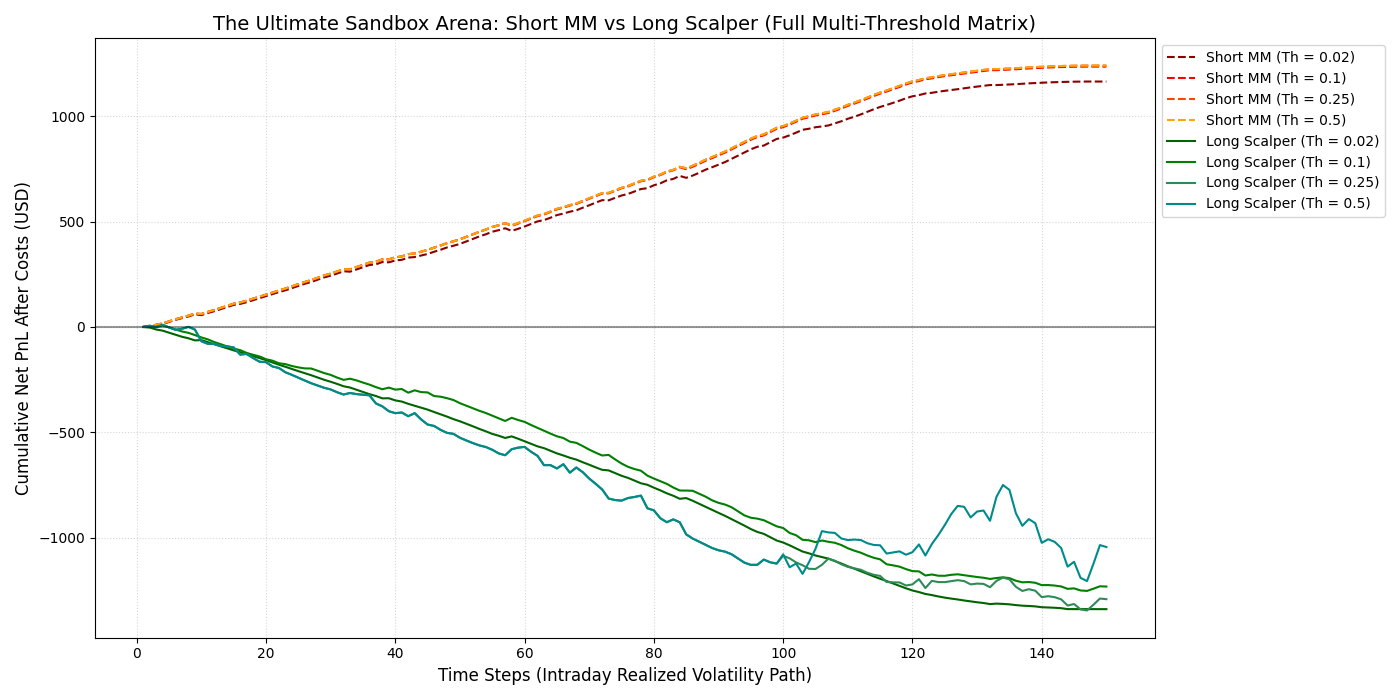
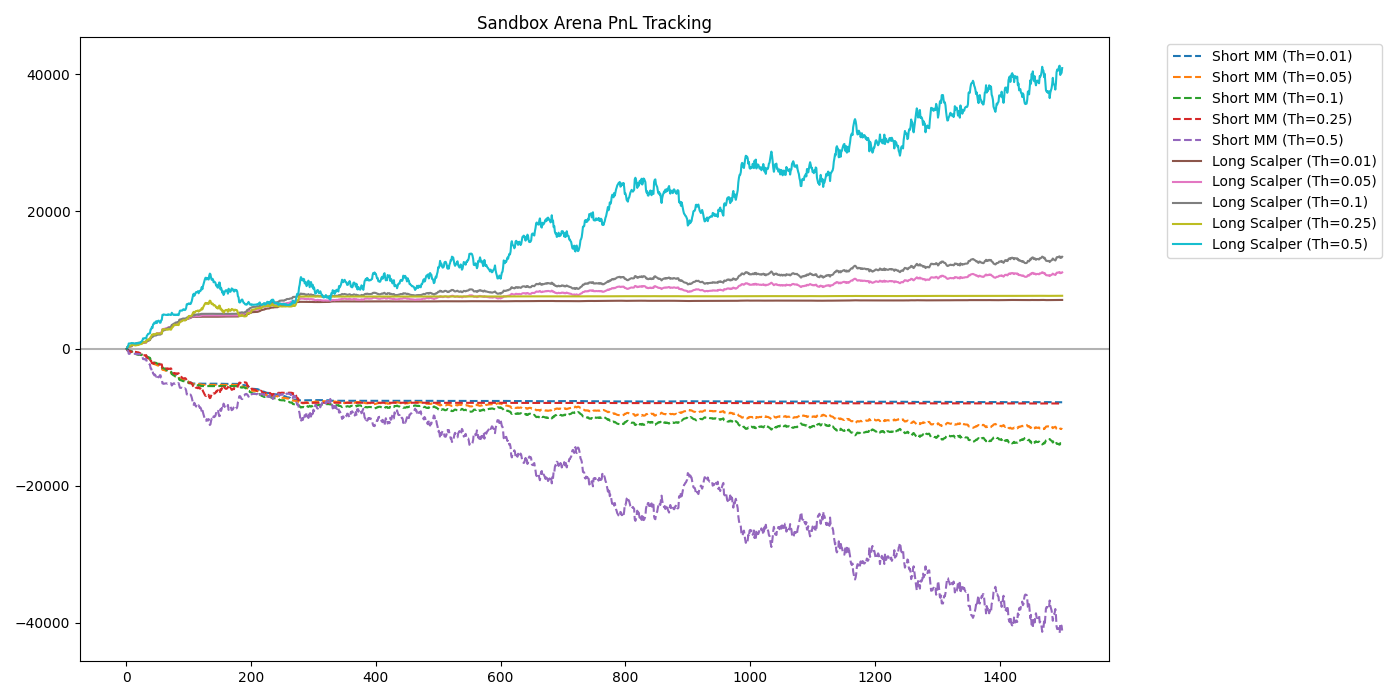
docs: populate verifed matrix

diff --git a/backtest/SandBoxRun.py b/backtest/SandBoxRun.py
@@ -74,13 +74,12 @@ if __name__ == '__main__':
     print(perf_matrix.to_string(index=False))
     print("="*80 + "\n")
     
-    # 也可以順手存成 CSV 丟上 GitHub
     perf_matrix.to_csv('backtest/performance_matrix.csv', index=False)
     print("Imported backtest/performance_matrix.csv")
 
-    # 渲染圖表
     plt.axhline(0, color='black', linestyle='-', alpha=0.3)
     plt.title('Sandbox Arena PnL Tracking')
     plt.legend(bbox_to_anchor=(1.05, 1), loc='upper left')
     plt.tight_layout()
+    plt.savefig('figures/PnL_SandboxData.png')
     plt.show()
